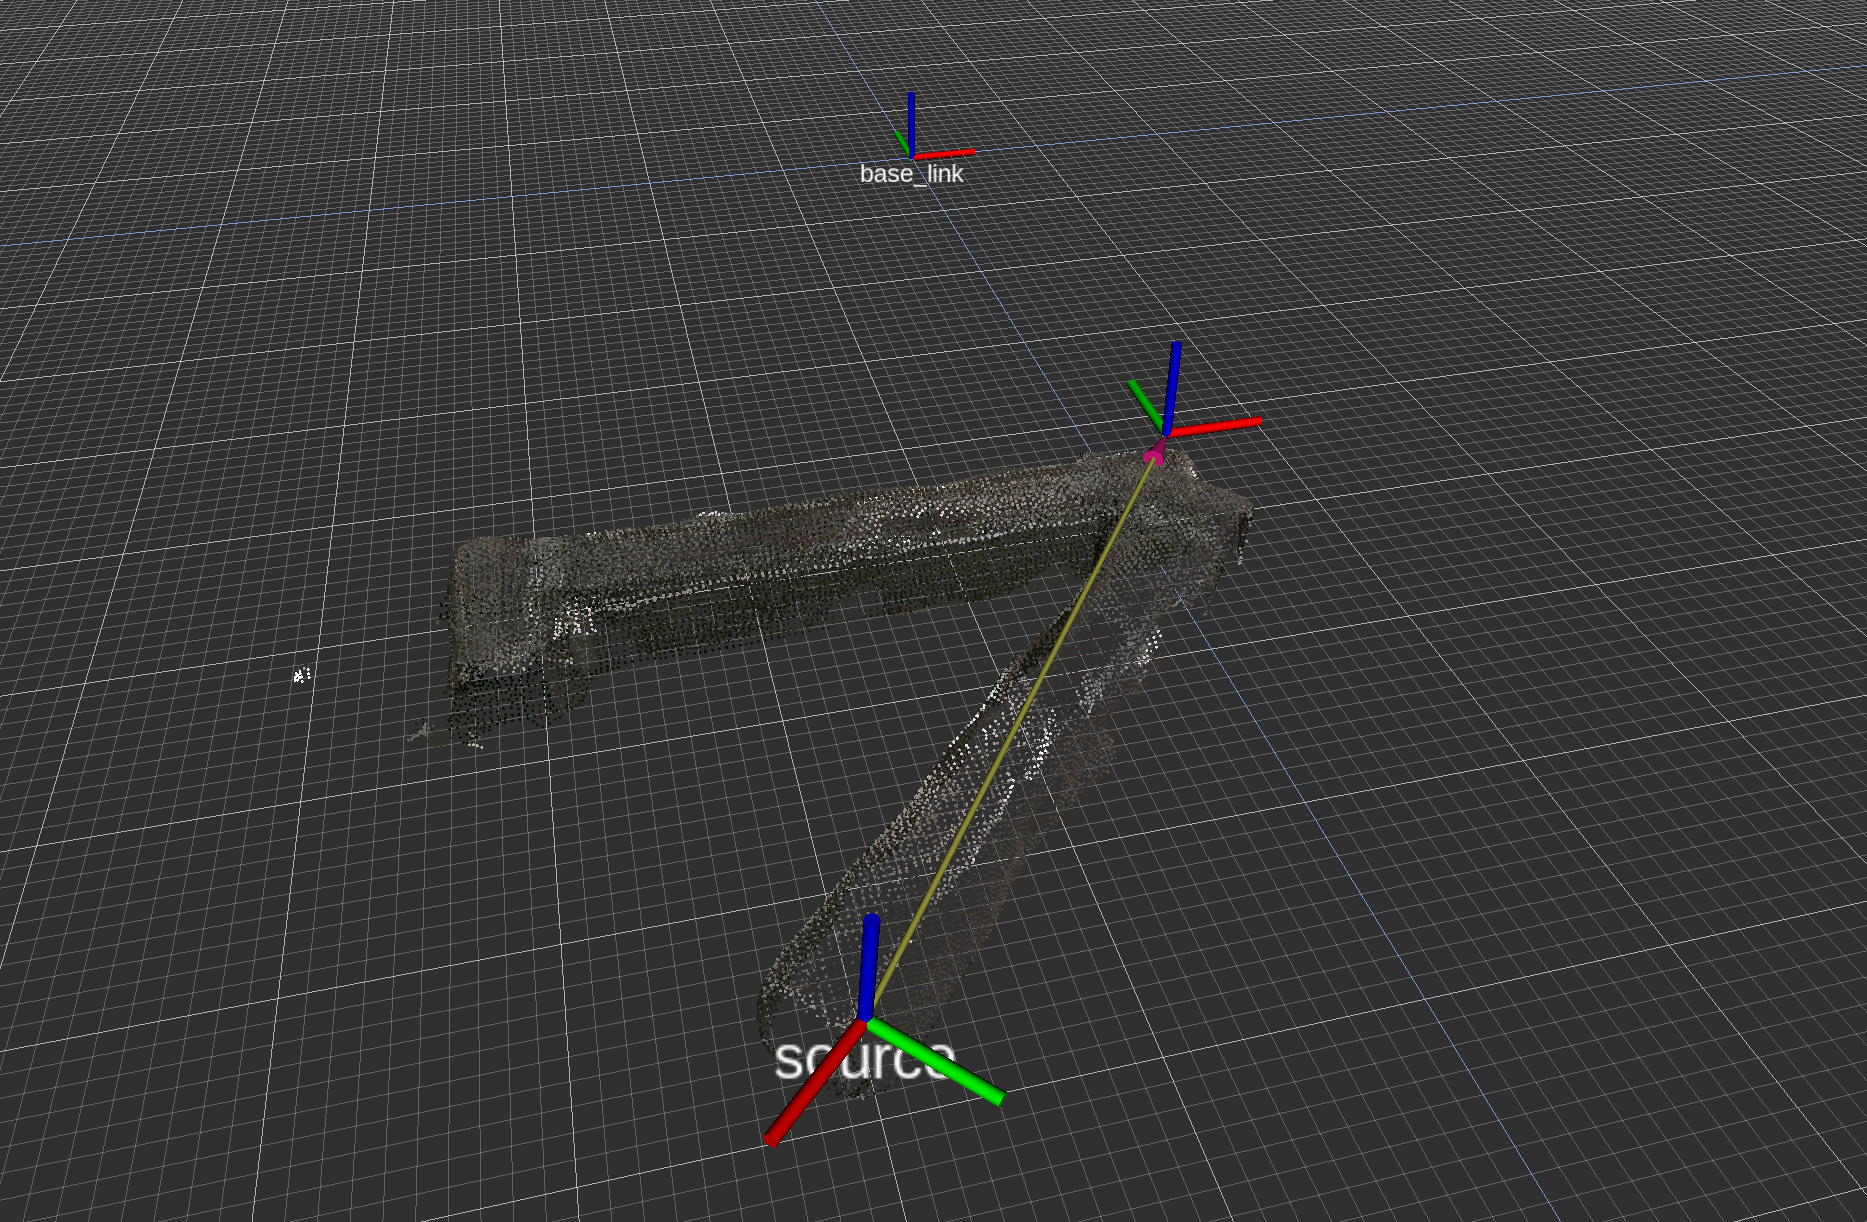
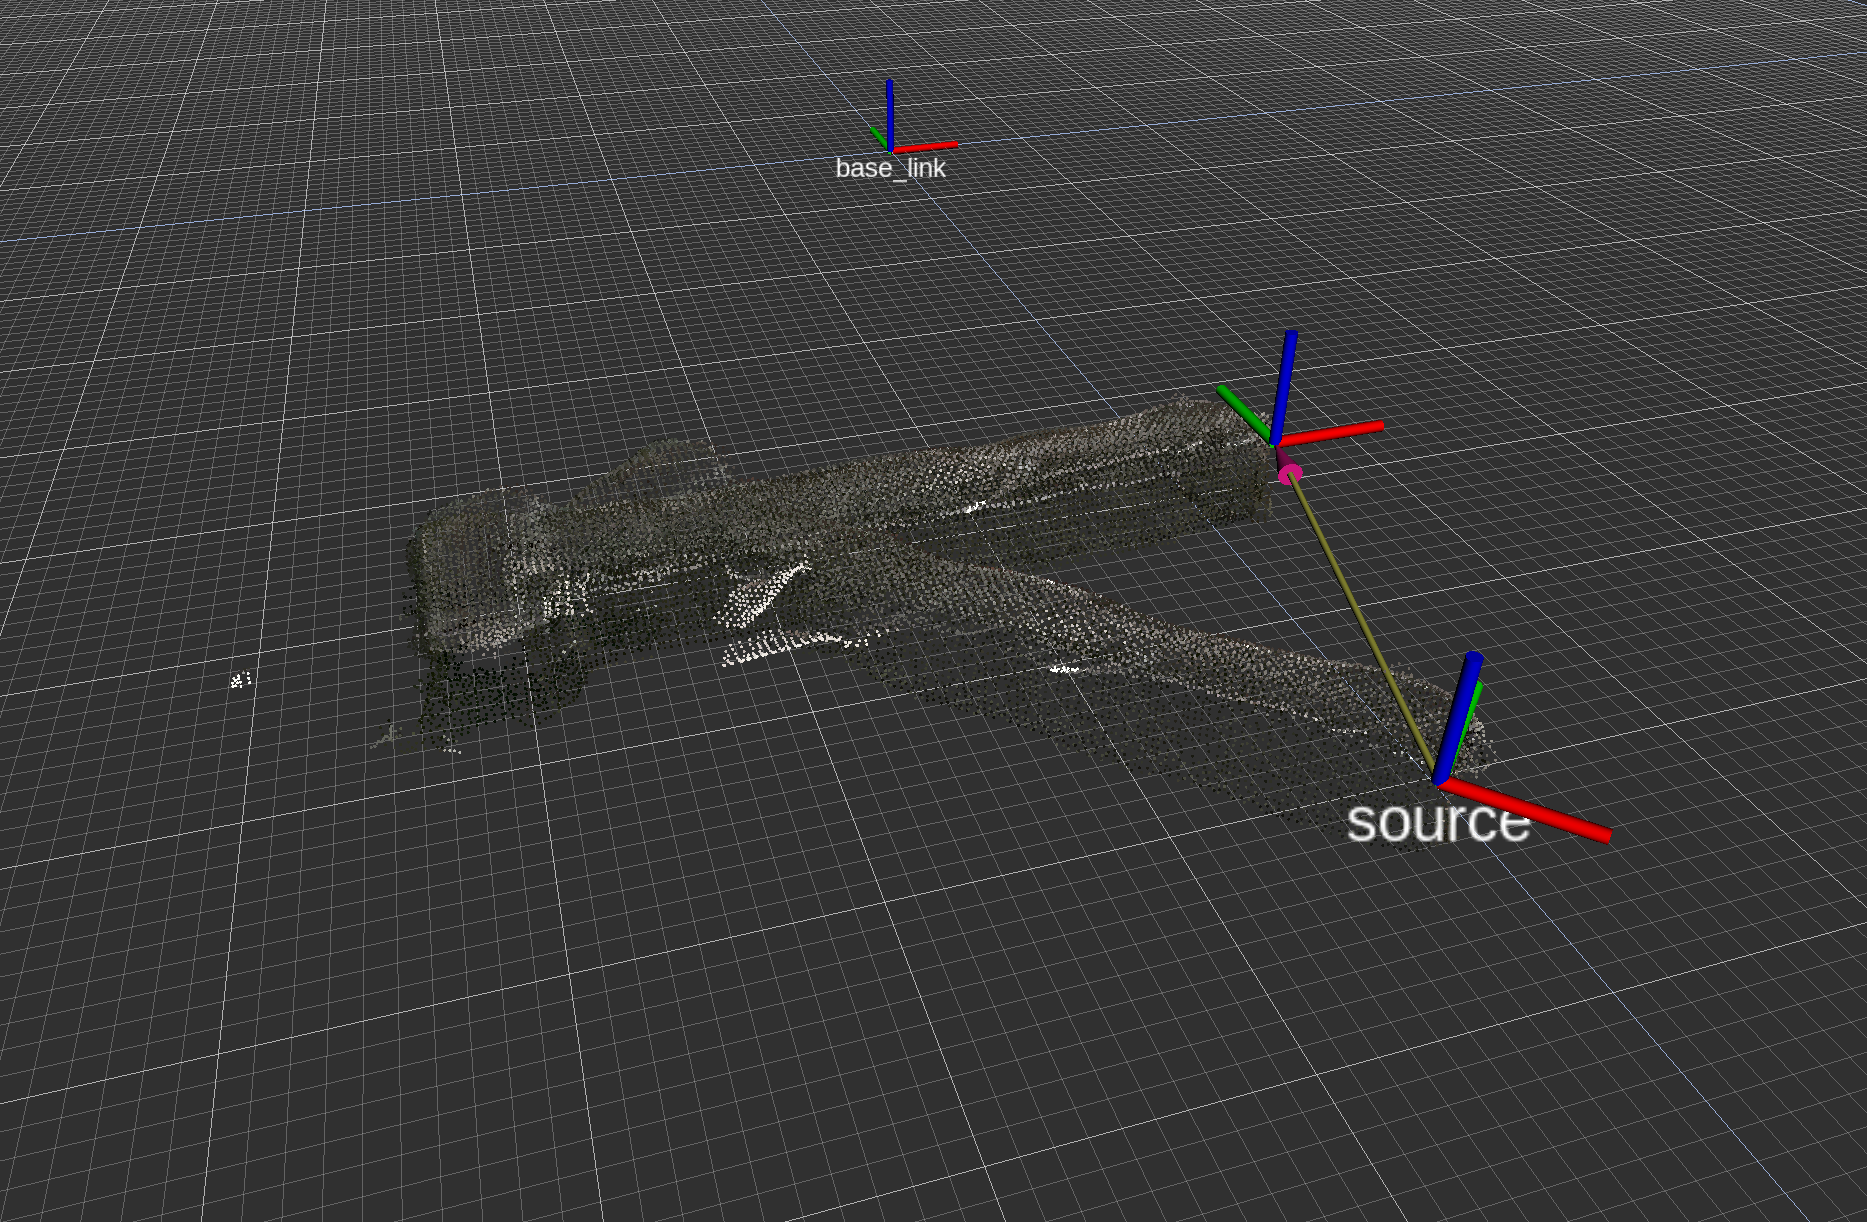
exporting reg images

diff --git a/src/register_clouds.cpp b/src/register_clouds.cpp
@@ -86,9 +86,11 @@ bool registration_complete=0;
 
 
 // function calculates a difference detween the measured and expected transformation and prints the info to the console
-void analyze_results(tf::Transform &tf_measured, tf::Transform &tf_expected,  tf::Vector3 P_target, tf::Vector3 P_source, tf::Vector3 P_expected_source)
+void analyze_results(tf::Transform &tf_measured, tf::Transform &tf_expected,  tf::Vector3 P_target, tf::Vector3 P_source, tf::Vector3 P_expected_source, int tgt_idx, int src_idx)
 {
   
+  std::cout<<"|---------- target: "<<tgt_idx+1<<", source: "<<src_idx<<" ----------|"<<std::endl;
+
   std::cout<<"Measured Rotation Matrix:"<<std::endl;  
   std::cout<<"["<<tf_measured.getBasis()[0][0]<<","<<tf_measured.getBasis()[0][1]<<","<<tf_measured.getBasis()[0][2]<<","<<std::endl;
   std::cout     <<tf_measured.getBasis()[1][0]<<","<<tf_measured.getBasis()[1][1]<<","<<tf_measured.getBasis()[1][2]<<","<<std::endl;
@@ -553,13 +555,13 @@ int main(int argc, char** argv)
   // recorded by SC on table
   known_poses_in << 0.5, -19.5-2.0, 2.0, 0.0,         // x3_y9_theta0// first (adjusted -2.0 in y)
                     6.5, -21.0, 2.0, 45.0,       // x7_y5_theta45 //second
-                    -0.787402, -29.1339, 2, 45.0, // x3_y11_theta135 
-                    -10.0, -30.0,  2.0,  -45.0,    // x4_y5_theta45
+                    -0.787402, -29.1339, 2,-45.0, // x3_y11_theta135 
+                    -10.0, -30.0,  2.0,  -135.0,    // x4_y5_theta45
                     -2.0+0.5, -36.0+0.25, 2.0,  90.0,      // x9_y2_theta90   
-                    -3.0, -24.0, 2.0, 30.0,       // x8_y6_theta30
-                     4.92126, -19.685, 2, 0,      // x4_y9_theta0  // this set recorded in prev session    
+                    -3.0, -24.0, 2.0, 150.0,       // x8_y6_theta30
+                     5.0, -21.5, 2, 0,      // x4_y9_theta0  // this set recorded in prev session    
                      2.55906, -11.811, 2, 90,     // x9_y7_theta90  
-                     3.34646, -30.5118, 2, 45;    // x5_y10_theta4
+                     2.0, -30.5118, 2, -45;    // x5_y10_theta4
    
    // recorded by TH in rviz
    known_poses_mm <<  20.0, -540.0, 50.8, 0.0,      // x3_y9_theta0
@@ -632,7 +634,7 @@ int main(int argc, char** argv)
   expected_source_p0[2]=known_poses_in(src_idx,2)*intom; 
   
   expected_p0=expected_source_p0-target_p0;
-  expected_q0.setRPY(0.0, 0.0, known_poses_in(src_idx,3)*degtorad);  
+  expected_q0.setRPY(0.0, 0.0, (known_poses_in(tgt_idx,3)+known_poses_in(src_idx,3))*degtorad);  
   //expected_q0.setRPY(0.0, 0.0, 45.0*degtorad);  
   T_expected.setRotation(expected_q0);
   T_expected.setOrigin(expected_p0); 
@@ -676,7 +678,7 @@ int main(int argc, char** argv)
   std::cout<<"                    register_clouds: analyzing results              "<<endl;
   std::cout<<"===================================================================="<<endl<<endl;
 
-  analyze_results(*T_src_tgt, T_expected, target_p0, source_p0, expected_source_p0);
+  analyze_results(*T_src_tgt, T_expected, target_p0, source_p0, expected_source_p0, tgt_idx, src_idx);
 
   std::cout<<"===================================================================="<<endl;
   std::cout<<"                    register_clouds: preparing visualization        "<<endl;

diff --git a/NOTES.md b/NOTES.md
@@ -129,6 +129,7 @@ target: (idx=0)
 
 (no registration data for single cloud)
 
+
 test1:
 source:
  `bags/reconstruction/part1_x7_y5_theta45_5_output.pcd`
@@ -137,24 +138,22 @@ Measured Rotation Matrix:
 [0.713715,-0.70011,-0.0213854,
 0.70042,0.713162,0.0284788,
 -0.00468702,-0.0353045,0.999366]
-Measured Translation: [-0.222094,-0.159648,-0.0205973]
-P_target: [0.0127,-0.4953,0.0508]
-P_source: [0.132648,-0.502535,0.0475973]
+Expected Rotation Matrix:
+[0.707107,-0.707107,0,
+0.707107,0.707107,0,
+0,0,1]
+Measured Axis Rotations: [ -0.0353122, 0.00468703, 0.775997 ]
+Expected Axis Rotations: [ 0, -0, 0.785398 ]
+Difference Axis Rotations: [ -0.0353122, -0.00940101, 0.00468703 ]
+P_target: [0.0127,-0.5461,0.0508]
+P_source: [0.168214,-0.538763,0.0493907]
+P_target_source: [-0.155514,-0.00733667,0.00140926]
+P_expected_source: [0.1651,-0.5334,0.0508]
+P_target_expected_source: [-0.155514,-0.00733667,0.00140926]
+P_diff: [-0.00311395,0.00536336,0.00140926]
 
 
 test2:
-source:
- `bags/reconstruction/part1_x4_y5_theta45_5_output.pcd`
-
-Measured Rotation Matrix:
-[-0.713664,0.697676,0.062713,
--0.700364,-0.712361,-0.0450758,
-0.013226,-0.0760909,0.997013]
-Measured Translation: [0.148246,-1.13778,-0.0369559]
-P_target: [0.0127,-0.4953,0.0508]
-P_source: [-0.203191,-0.796131,0.0515481]
-
-test3:
 source
  `bags/reconstruction/part1_x3_y11_theta135_5_output.pcd`
 
@@ -162,9 +161,43 @@ Measured Rotation Matrix:
 [0.701546,0.712319,-0.0208524,
 -0.712488,0.700541,-0.0400354,
 -0.01391,0.0429438,0.998981]
-Measured Translation: [0.347233,-0.349363,0.0182425]
-P_target: [0.0127,-0.4953,0.0508]
-P_source: [0.00227234,-0.707423,0.047544]
+Expected Rotation Matrix:
+[0.707107,0.707107,0,
+-0.707107,0.707107,-0,
+-0,0,1]
+Measured Axis Rotations: [ 0.0429611, 0.0139104, -0.793136 ]
+Expected Axis Rotations: [ 0, 0, -0.785398 ]
+Difference Axis Rotations: [ 0.0429611, -0.00773768, 0.0139104 ]
+P_target: [0.0127,-0.5461,0.0508]
+P_source: [-0.0339135,-0.743011,0.0453624]
+P_target_source: [0.0466135,0.196911,0.00543755]
+P_expected_source: [-0.02,-0.740001,0.0508]
+P_target_expected_source: [0.0466135,0.196911,0.00543755]
+P_diff: [0.0139135,0.00300968,0.00543755]
+
+
+test3:
+source:
+ `bags/reconstruction/part1_x4_y5_theta45_5_output.pcd`
+
+Measured Rotation Matrix:
+[-0.713664,0.697676,0.062713,
+-0.700364,-0.712361,-0.0450758,
+0.013226,-0.0760909,0.997013]
+Expected Rotation Matrix:
+[-0.707107,0.707107,0,
+-0.707107,-0.707107,-0,
+-0,0,1]
+Measured Axis Rotations: [ -0.0761712, -0.0132264, -2.3656 ]
+Expected Axis Rotations: [ 0, -0, -2.35619 ]
+Difference Axis Rotations: [ -0.0761712, -0.00940539, -0.0132264 ]
+P_target: [0.0127,-0.5461,0.0508]
+P_source: [-0.238633,-0.759943,0.0554135]
+P_target_source: [0.251333,0.213843,-0.00461353]
+P_expected_source: [-0.254,-0.762,0.0508]
+P_target_expected_source: [0.251333,0.213843,-0.00461353]
+P_diff: [-0.0153674,-0.00205662,-0.00461353]
+
 
 test4:
 source
@@ -174,9 +207,19 @@ Measured Rotation Matrix:
 [0.999837,0.0123178,-0.0131965,
 -0.0117661,0.999086,0.0410973,
 0.0136907,-0.0409354,0.999068]
-Measured Translation: [0.103524,-0.00317029,-0.0163166]
-P_target: [0.0127,-0.4953,0.0508]
-P_source: [0.10945,-0.496079,0.0548852]
+Expected Rotation Matrix:
+[1,0,0,
+0,1,0,
+0,0,1]
+Measured Axis Rotations: [ -0.0409507, -0.0136911, -0.0117675 ]
+Expected Axis Rotations: [ 0, -0, 0 ]
+Difference Axis Rotations: [ -0.0409507, -0.0117675, -0.0136911 ]
+P_target: [0.0127,-0.5461,0.0508]
+P_source: [0.108824,-0.546833,0.0569648]
+P_target_source: [-0.0961243,0.00073277,-0.00616476]
+P_expected_source: [0.127,-0.5461,0.0508]
+P_target_expected_source: [-0.0961243,0.00073277,-0.00616476]
+P_diff: [0.0181757,0.00073277,-0.00616476]
 
 test5:
 source
@@ -186,9 +229,20 @@ Measured Rotation Matrix:
 [-0.904444,-0.425039,-0.0363863,
 0.426576,-0.901875,-0.0682162,
 -0.00382135,-0.0772193,0.997007]
-Measured Translation: [-0.26533,-1.10214,-0.0429448]
-P_target: [0.0127,-0.4953,0.0508]
-P_source: [-0.0681429,-0.653487,0.0459013]
+Expected Rotation Matrix:
+[-0.866025,-0.5,0,
+0.5,-0.866025,0,
+0,0,1]
+Measured Axis Rotations: [ -0.0772968, 0.00382136, 2.70089 ]
+Expected Axis Rotations: [ 0, -0, 2.61799 ]
+Difference Axis Rotations: [ -0.0772968, 0.0828916, 0.00382136 ]
+P_target: [0.0127,-0.5461,0.0508]
+P_source: [-0.046551,-0.607672,0.0498241]
+P_target_source: [0.059251,0.0615722,0.000975916]
+P_expected_source: [-0.0762,-0.6096,0.0508]
+P_target_expected_source: [0.059251,0.0615722,0.000975916]
+P_diff: [-0.029649,-0.00192783,0.000975916]
+
 
 test6:
 source
@@ -198,28 +252,74 @@ Measured Rotation Matrix:
 [0.706805,0.706776,0.0298957,
 -0.707401,0.705974,0.0344207,
 0.00322214,-0.045477,0.99896]
-Measured Translation: [0.422514,-0.386578,-0.0202862]
-P_target: [0.0127,-0.4953,0.0508]
-P_source: [0.0829428,-0.743482,0.0530266]
+Expected Rotation Matrix:
+[0.707107,0.707107,0,
+-0.707107,0.707107,-0,
+-0,0,1]
+Measured Axis Rotations: [ -0.0454929, -0.00322214, -0.785819 ]
+Expected Axis Rotations: [ 0, 0, -0.785398 ]
+Difference Axis Rotations: [ -0.0454929, -0.000421207, -0.00322214 ]
+P_target: [0.0127,-0.5461,0.0508]
+P_source: [0.0470386,-0.779346,0.0553369]
+P_target_source: [-0.0343386,0.233246,-0.00453686]
+P_expected_source: [0.0508,-0.775,0.0508]
+P_target_expected_source: [-0.0343386,0.233246,-0.00453686]
+P_diff: [0.00376143,0.00434617,-0.00453686]
+
 
 ###### set2
 training2:
 target: (idx=4)
  `bags/reconstruction/part1_x9_y2_theta90_5_output.pcd`
 
+
 test1:
 source:
  `bags/reconstruction/part1_x7_y5_theta45_5_output.pcd`
+
 
 Measured Rotation Matrix:
 [-0.698321,-0.714412,-0.0443162,
 0.713371,-0.699711,0.0388073,
 -0.0587329,-0.00451399,0.998264]
-Measured Translation: [-0.500163,-1.14514,-0.0053346]
+Expected Rotation Matrix:
+[-0.707107,-0.707107,0,
+0.707107,-0.707107,0,
+0,0,1]
+Measured Axis Rotations: [ -0.00452181, 0.0587667, 2.34553 ]
+Expected Axis Rotations: [ 0, -0, 2.35619 ]
+Difference Axis Rotations: [ -0.00452181, -0.0106612, 0.0587667 ]
 P_target: [-0.0381,-0.90805,0.0508]
 P_source: [0.172914,-0.534973,0.0517138]
+P_target_source: [-0.211014,-0.373077,-0.000913844]
+P_expected_source: [0.1651,-0.5334,0.0508]
+P_target_expected_source: [-0.211014,-0.373077,-0.000913844]
+P_diff: [-0.00781368,0.0015732,-0.000913844]
 
 test2:
+source
+ `bags/reconstruction/part1_x3_y11_theta135_5_output.pcd`
+
+
+Measured Rotation Matrix:
+[0.701449,-0.711309,-0.0448233,
+0.708,0.70265,-0.0708472,
+0.0818893,0.0179608,0.99648]
+Expected Rotation Matrix:
+[0.707107,-0.707107,0,
+0.707107,0.707107,0,
+0,0,1]
+Measured Axis Rotations: [ 0.0180223, -0.0819811, 0.790046 ]
+Expected Axis Rotations: [ 0, -0, 0.785398 ]
+Difference Axis Rotations: [ 0.0180223, 0.00464753, -0.0819811 ]
+P_target: [-0.0381,-0.90805,0.0508]
+P_source: [-0.0278142,-0.749801,0.0438072]
+P_target_source: [-0.0102858,-0.158249,0.00699284]
+P_expected_source: [-0.02,-0.740001,0.0508]
+P_target_expected_source: [-0.0102858,-0.158249,0.00699284]
+P_diff: [0.00781423,0.00980047,0.00699284]
+
+test3:
 source:
  `bags/reconstruction/part1_x4_y5_theta45_5_output.pcd`
 
@@ -227,45 +327,28 @@ Measured Rotation Matrix:
 [0.703148,0.704752,0.0943776,
 -0.701551,0.709239,-0.0693323,
 -0.115798,-0.0174598,0.993119]
-Measured Translation: [0.418683,-0.145506,-0.0135196]
+Expected Rotation Matrix:
+[0.707107,0.707107,0,
+-0.707107,0.707107,-0,
+-0,0,1]
+Measured Axis Rotations: [ -0.0175789, 0.116059, -0.784261 ]
+Expected Axis Rotations: [ 0, 0, -0.785398 ]
+Difference Axis Rotations: [ -0.0175789, 0.00113754, 0.116059 ]
 P_target: [-0.0381,-0.90805,0.0508]
 P_source: [-0.243262,-0.766323,0.0571971]
-
-test3:
-source
- `bags/reconstruction/part1_x3_y11_theta135_5_output.pcd`
-
-Measured Rotation Matrix:
-[0.701449,-0.711309,-0.0448233,
-0.708,0.70265,-0.0708472,
-0.0818893,0.0179608,0.99648]
-Measured Translation: [-0.644716,-0.0811862,0.0126153]
-P_target: [-0.0381,-0.90805,0.0508]
-P_source: [-0.0278142,-0.749801,0.0438072]
-
+P_target_source: [0.205162,-0.141727,-0.00639709]
+P_expected_source: [-0.254,-0.762,0.0508]
+P_target_expected_source: [0.205162,-0.141727,-0.00639709]
+P_diff: [-0.0107377,0.00432344,-0.00639709]
 
 test4: (this test fails by 180 deg)
 source
  `bags/reconstruction/part1_x4_y9_theta0_5_output.pcd`
-Measured Rotation Matrix:
-[-0.162278,0.985452,-0.0504945,
-0.00772338,0.0524397,0.998594,
-0.986715,0.161659,-0.0161208]
-Measured Translation: [0.651191,-0.518365,0.176533]
-P_target: [-0.0381,-0.90805,0.0508]
-P_source: [-0.240031,-0.515549,-0.00867485]
+
 
 test5: (this test fails by 180 deg)
 source
  `bags/reconstruction/part1_x8_y6_theta30_5_output.pcd`
-
-Measured Rotation Matrix:
-[0.417718,-0.907752,-0.0387098,
-0.90822,0.418369,-0.0102143,
-0.025467,-0.0308903,0.999198]
-Measured Translation: [-0.556542,-0.382605,-0.0240121]
-P_target: [-0.0381,-0.90805,0.0508]
-P_source: [0.24986,-0.797627,0.0538268]
 
 
 test6: 
@@ -276,9 +359,19 @@ Measured Rotation Matrix:
 [0.708394,-0.705815,-0.00186529,
 0.705773,0.708376,-0.00931961,
 0.00789925,0.00528548,0.999955]
-Measured Translation: [-0.563405,-0.115711,0.00713087]
+Expected Rotation Matrix:
+[0.707107,-0.707107,0,
+0.707107,0.707107,0,
+0,0,1]
+Measured Axis Rotations: [ 0.00528567, -0.00789933, 0.783545 ]
+Expected Axis Rotations: [ 0, -0, 0.785398 ]
+Difference Axis Rotations: [ 0.00528567, -0.00185272, -0.00789933 ]
 P_target: [-0.0381,-0.90805,0.0508]
 P_source: [0.0504262,-0.786315,0.0528281]
+P_target_source: [-0.0885262,-0.121735,-0.00202814]
+P_expected_source: [0.0508,-0.775,0.0508]
+P_target_expected_source: [-0.0885262,-0.121735,-0.00202814]
+P_diff: [0.000373826,0.0113155,-0.00202814]
 
 
 
